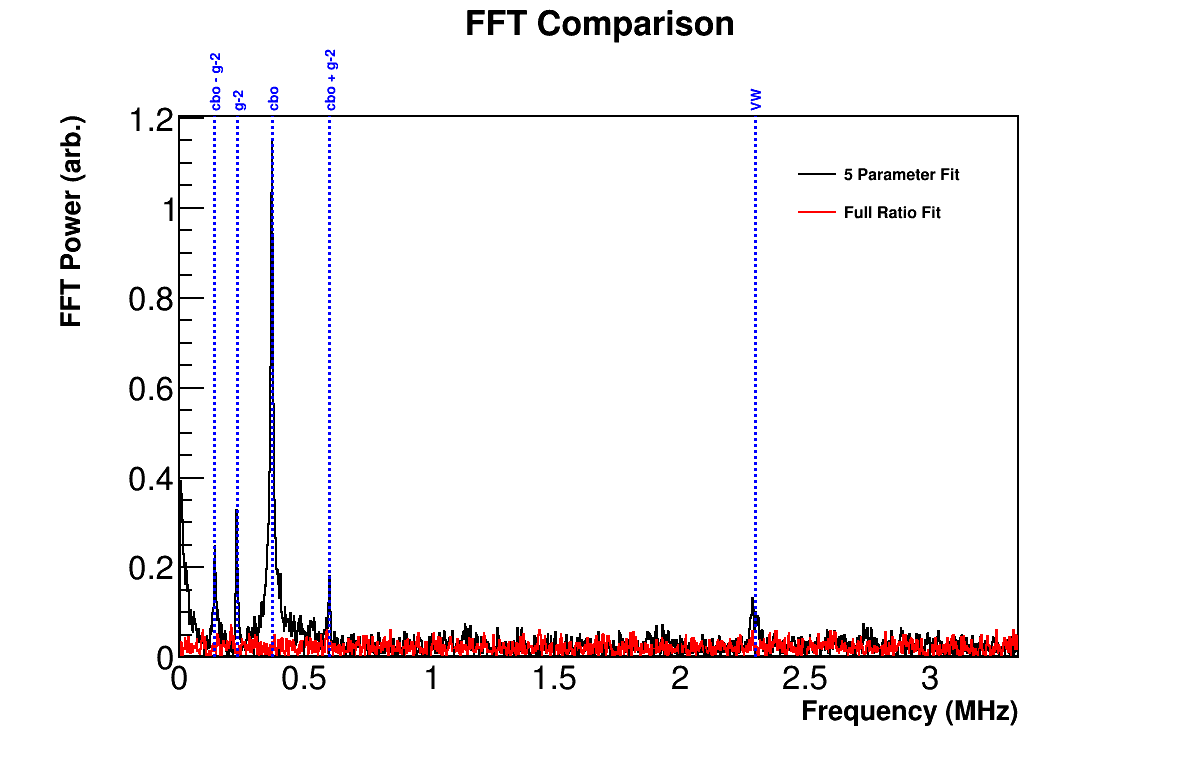
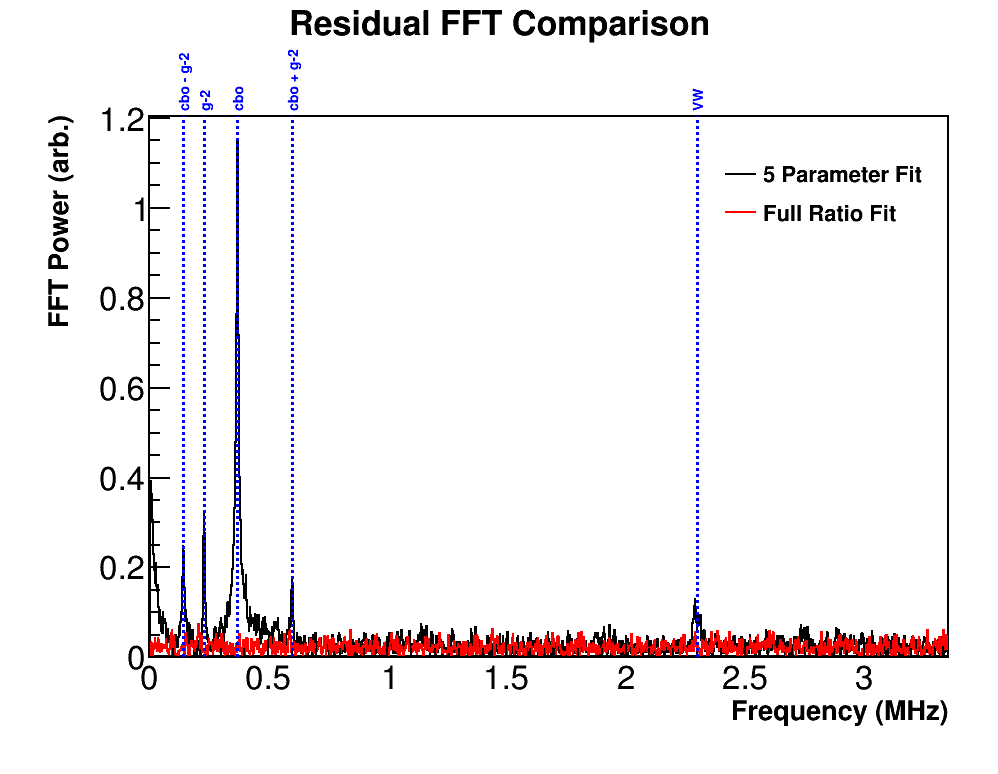
Added FFT plots.

diff --git a/Content/AnalysisResults.tex b/Content/AnalysisResults.tex
@@ -79,9 +79,19 @@
 \label{fig:fitResidual}
 \end{figure}
 
+\begin{figure}[]
+	\centering
+	\includegraphics[width=\textwidth]{FFT_ratioCBOFit.png}
+    \caption[FFT_ratioCBOFit]{FFT of the residuals of the full ratio fit. No significant peaks remain in the ratio fit residuals after fitting with CBO terms. Overlayed are dotted lines for the \gmtwo, CBO, and vertical waist frequencies. Peaks close to the lines are coincidental but don't line up when zoomed in.}
+    \label{fig:FFT_ratioCBOFit}
+\end{figure}
 
-
-
+\begin{figure}[]
+	\centering
+	\includegraphics[width=\textwidth]{FFTComparison_RatioCBO.png}
+    \caption[FFTComparison_RatioCBO]{A plot of the FFT of the residuals of the fit for the five parameter fit compared to the ratio fit. In black is the FFT for a five parameter fit, where peaks for the CBO and vertical waist can be seen as well as the \gmtwo peak. In red is the FFT of the full ratio fit residuals, where it has been scaled up to be visible on this plot.}
+    \label{fig:FFTComparison_RatioCBO}
+\end{figure}
 
 
 \section{Start time scans}
